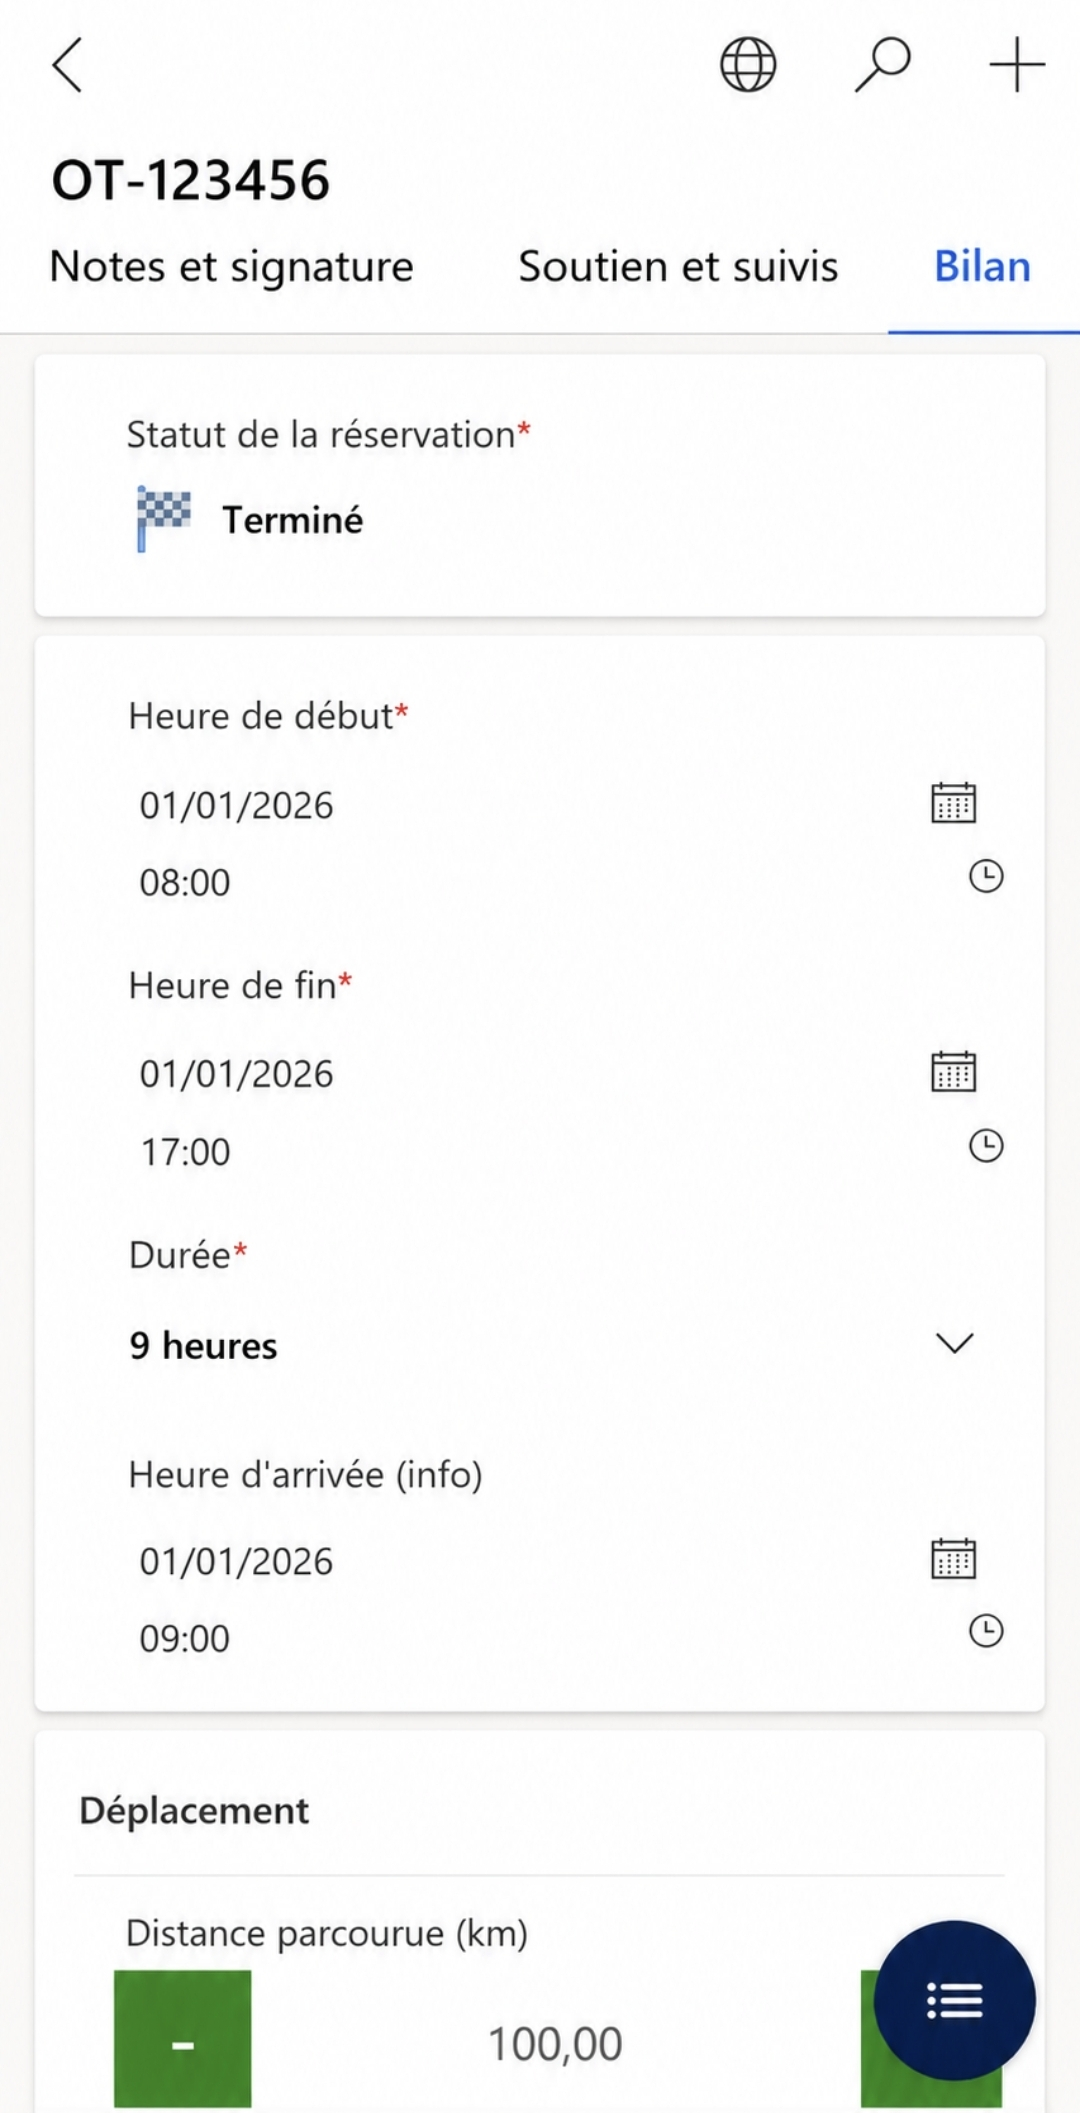
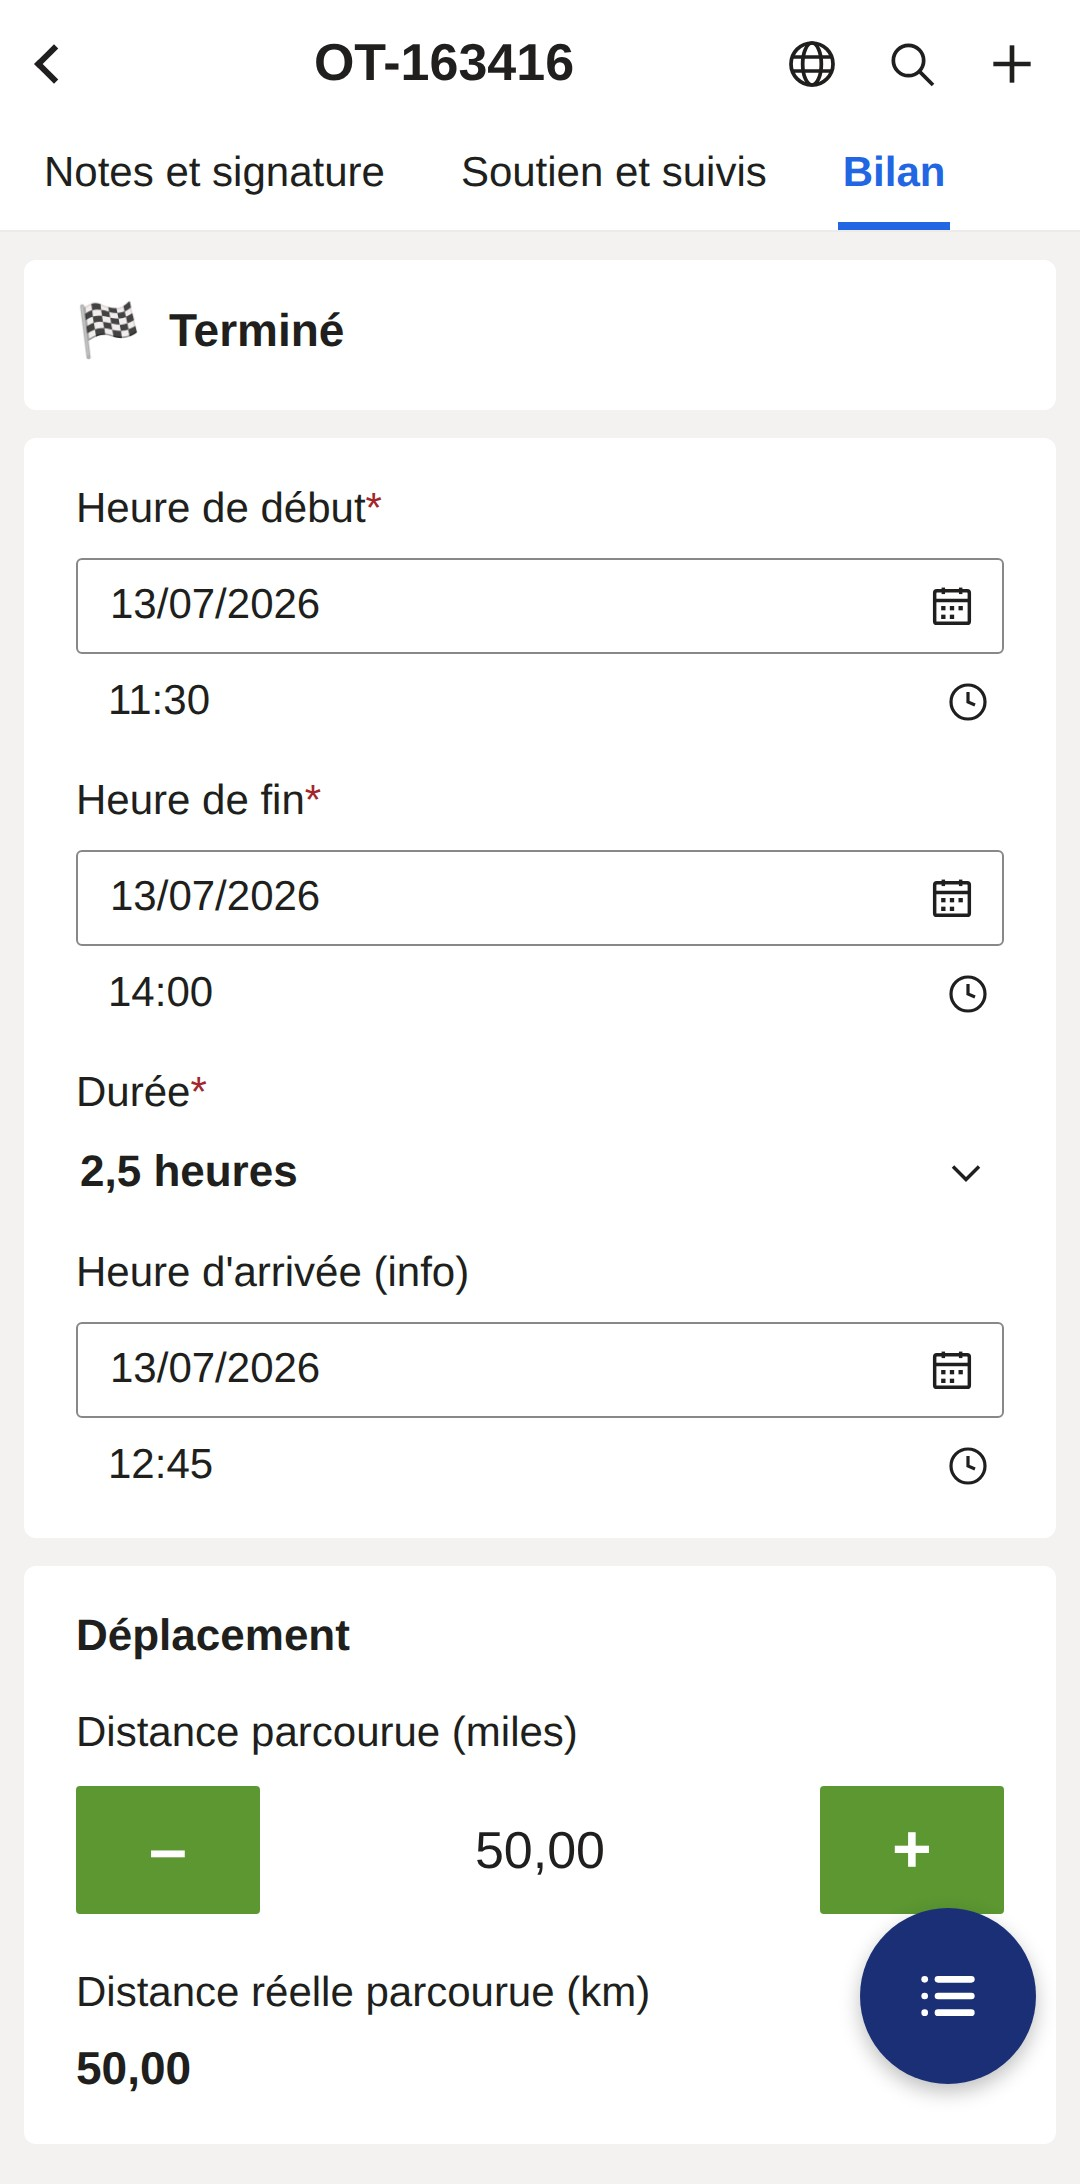
Prioritize "Distance réelle parcourue (km)" in autofill extraction
- Replace the autofill screenshot guide image with the new Bilan layout
  showing "Distance réelle parcourue (km)" as the last value at the bottom
- OCR parser: take "Distance réelle parcourue (km)" first; fall back to
  "Distance parcourue" only when it isn't the miles field
- Edge function prompt: same priority rule, never use the miles value
- Update autofill tip step 2 (EN/FR) to tell users the
  "Distance réelle parcourue (km)" line must be visible in the screenshot

Claude-Session: https://claude.ai/code/session_01TYDap7sK8gWvHDz3ArTD81

diff --git a/src/lib/i18n.js b/src/lib/i18n.js
@@ -123,7 +123,7 @@ export const dictionaries = {
     "form.errors.timedOut": "{label} timed out after {seconds}s. Please retry.",
     "form.autofillTip.title": "How to take the screenshot",
     "form.autofillTip.step1": "Open the work order in your app (e.g. Dynamics 365).",
-    "form.autofillTip.step2": "Go to the \"Bilan\" tab and scroll down until you can see the two green buttons (– and +) at the bottom of the screen, as shown below.",
+    "form.autofillTip.step2": "Go to the \"Bilan\" tab and scroll down until you can see the \"Distance réelle parcourue (km)\" value at the very bottom of the screen, as shown below.",
     "form.autofillTip.step3": "Take a screenshot, then come back here and select it.",
     "form.autofillTip.gotIt": "Got it – choose screenshot",
 
@@ -357,7 +357,7 @@ export const dictionaries = {
     "form.errors.timedOut": "{label} a expiré après {seconds}s. Veuillez réessayer.",
     "form.autofillTip.title": "Comment prendre la capture d'écran",
     "form.autofillTip.step1": "Ouvrez l'ordre de travail dans votre application (ex. Dynamics 365).",
-    "form.autofillTip.step2": "Allez dans l'onglet « Bilan » et faites défiler jusqu'à voir les deux boutons verts (– et +) en bas de l'écran, comme sur l'image ci-dessous.",
+    "form.autofillTip.step2": "Allez dans l'onglet « Bilan » et faites défiler jusqu'à voir la valeur « Distance réelle parcourue (km) » tout en bas de l'écran, comme sur l'image ci-dessous.",
     "form.autofillTip.step3": "Prenez une capture d'écran, puis revenez ici et sélectionnez-la.",
     "form.autofillTip.gotIt": "Compris – choisir la capture",
 

diff --git a/src/pages/EmployeeForm.jsx b/src/pages/EmployeeForm.jsx
@@ -52,8 +52,17 @@ function parseExtractedText(text) {
   const arrivee = labelTime(/Heure\s+d['’]?\s*arriv[eé]e/i);
   if (arrivee) out.arrivee = arrivee;
 
-  const km = text.match(/Distance\s+parcourue[^0-9]*?(\d+(?:[.,]\d+)?)/i);
-  if (km) out.km_aller = Math.round(parseFloat(km[1].replace(",", ".")));
+  // "Distance réelle parcourue (km)" is the authoritative value; only fall
+  // back to "Distance parcourue" when it isn't the miles field.
+  const kmReel = text.match(/Distance\s+r[éèe]+[l1]{1,2}e?\s+parcourue[^0-9]*?(\d+(?:[.,]\d+)?)/i);
+  if (kmReel) {
+    out.km_aller = Math.round(parseFloat(kmReel[1].replace(",", ".")));
+  } else {
+    const km = text.match(/Distance\s+parcourue([^0-9]*?)(\d+(?:[.,]\d+)?)/i);
+    if (km && !/mil(?:le|e)s?/i.test(km[1])) {
+      out.km_aller = Math.round(parseFloat(km[2].replace(",", ".")));
+    }
+  }
 
   return out;
 }

diff --git a/supabase/functions/extract_job_from_image /index.ts b/supabase/functions/extract_job_from_image /index.ts
@@ -71,7 +71,7 @@ Extract the following fields if present in the image:
 - depart: departure/start time in HH:mm 24h format (often labeled "Heure de début")
 - arrivee: arrival time in HH:mm 24h format (often labeled "Heure d'arrivée")
 - fin: end/finish time in HH:mm 24h format (often labeled "Heure de fin")
-- km_aller: one-way kilometers as a number (often labeled "Distance parcourue", convert "29,00" to 29)
+- km_aller: one-way kilometers as a number (convert "29,00" to 29). PRIORITY: take the value labeled "Distance réelle parcourue (km)" (usually the last value at the bottom of the screen). Only if that label is absent, use "Distance parcourue (km)". NEVER use a value labeled in miles such as "Distance parcourue (miles)".
 
 Return ONLY a valid JSON object with these exact keys. Use null for any field you cannot find. No explanation, no markdown.
 
